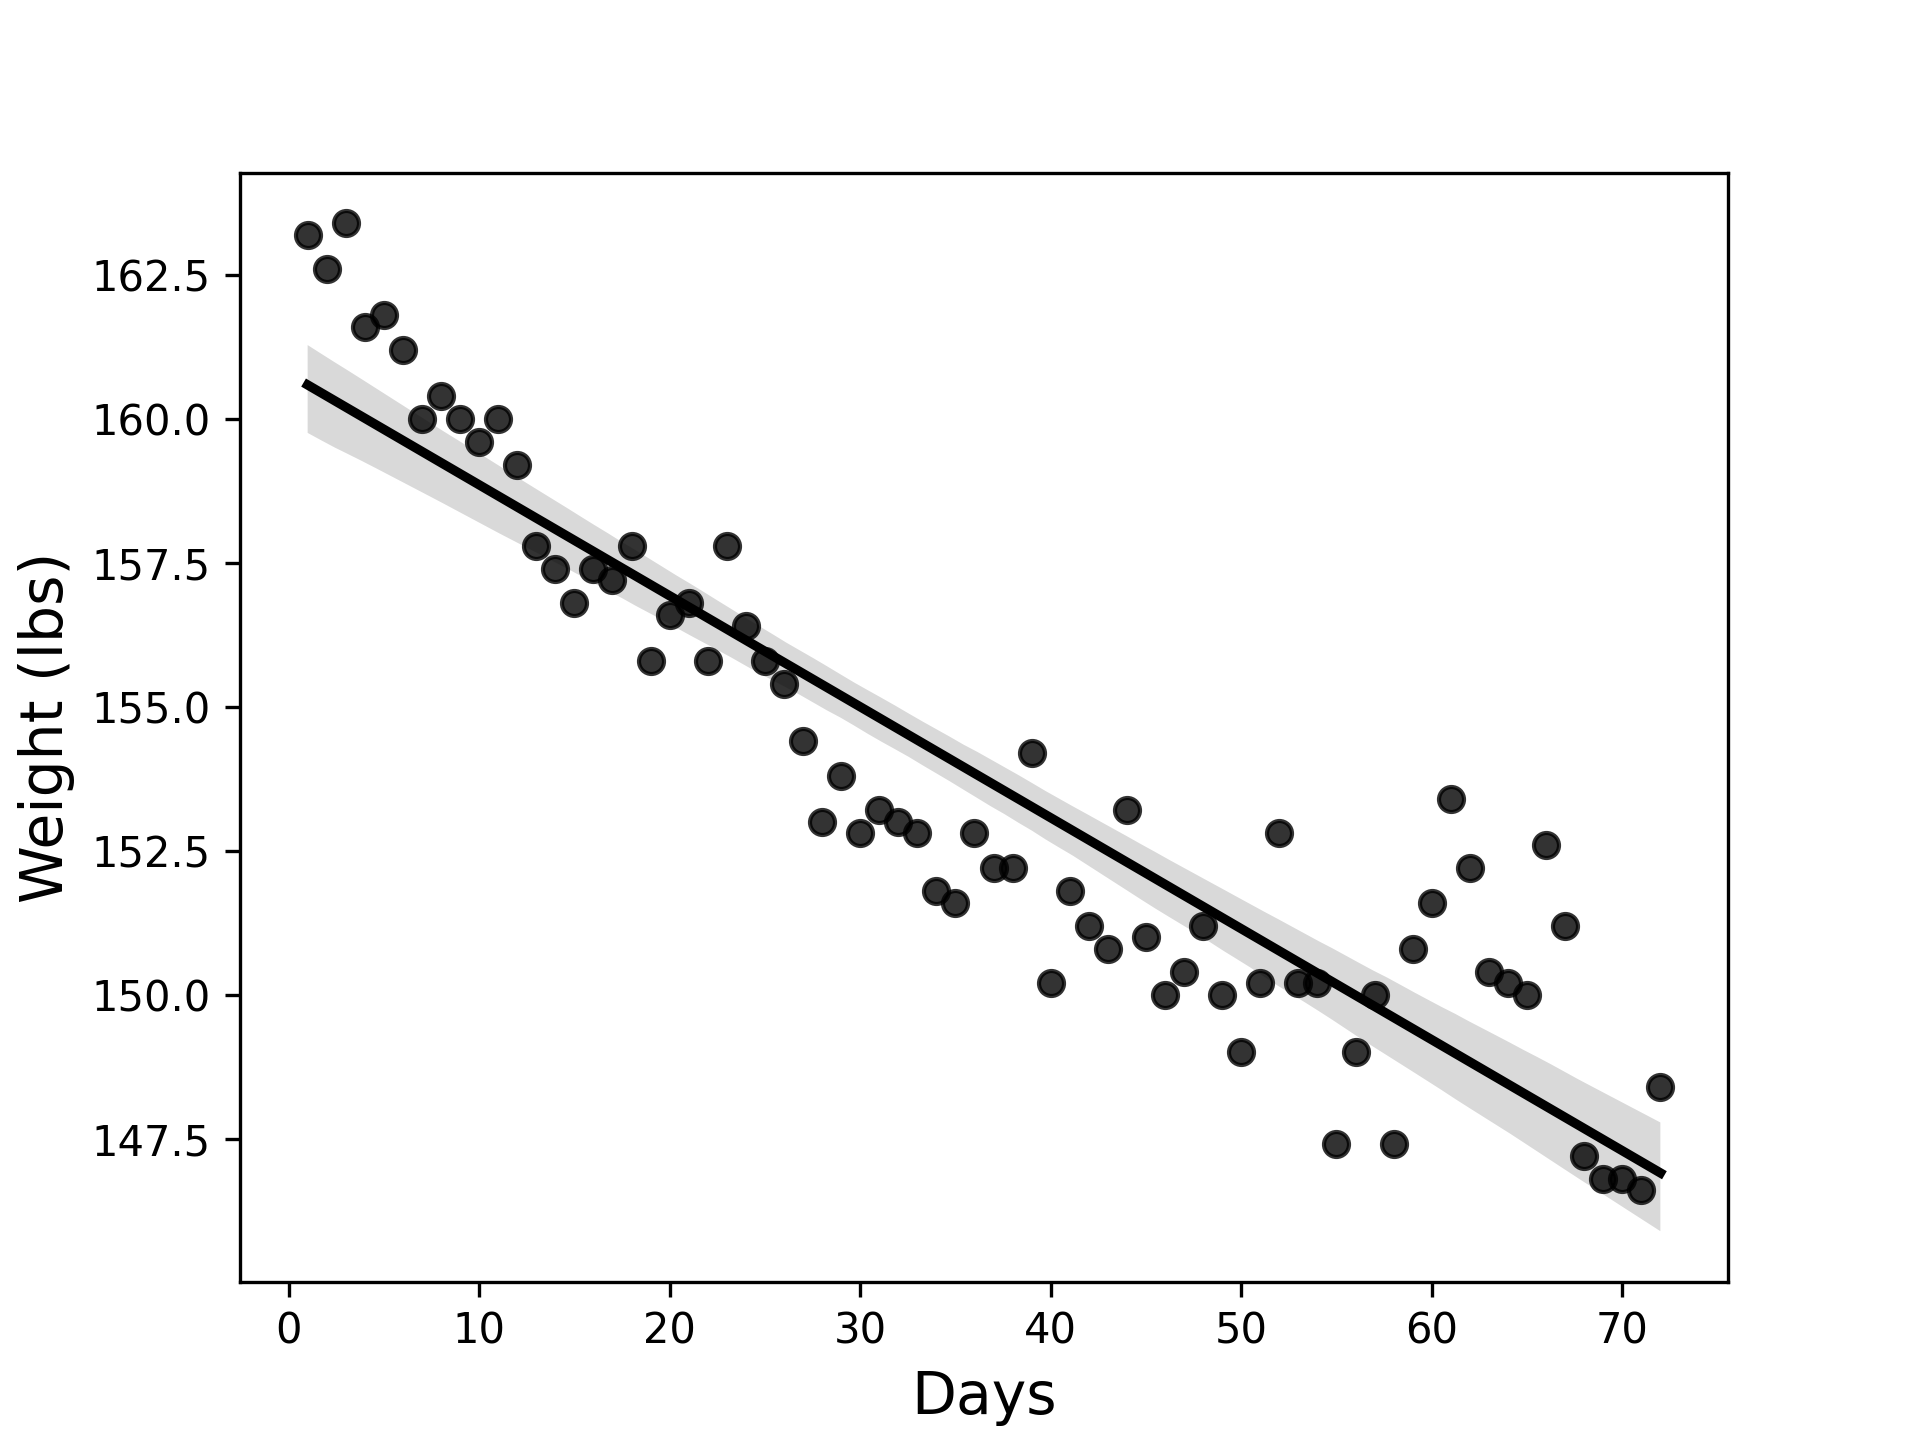
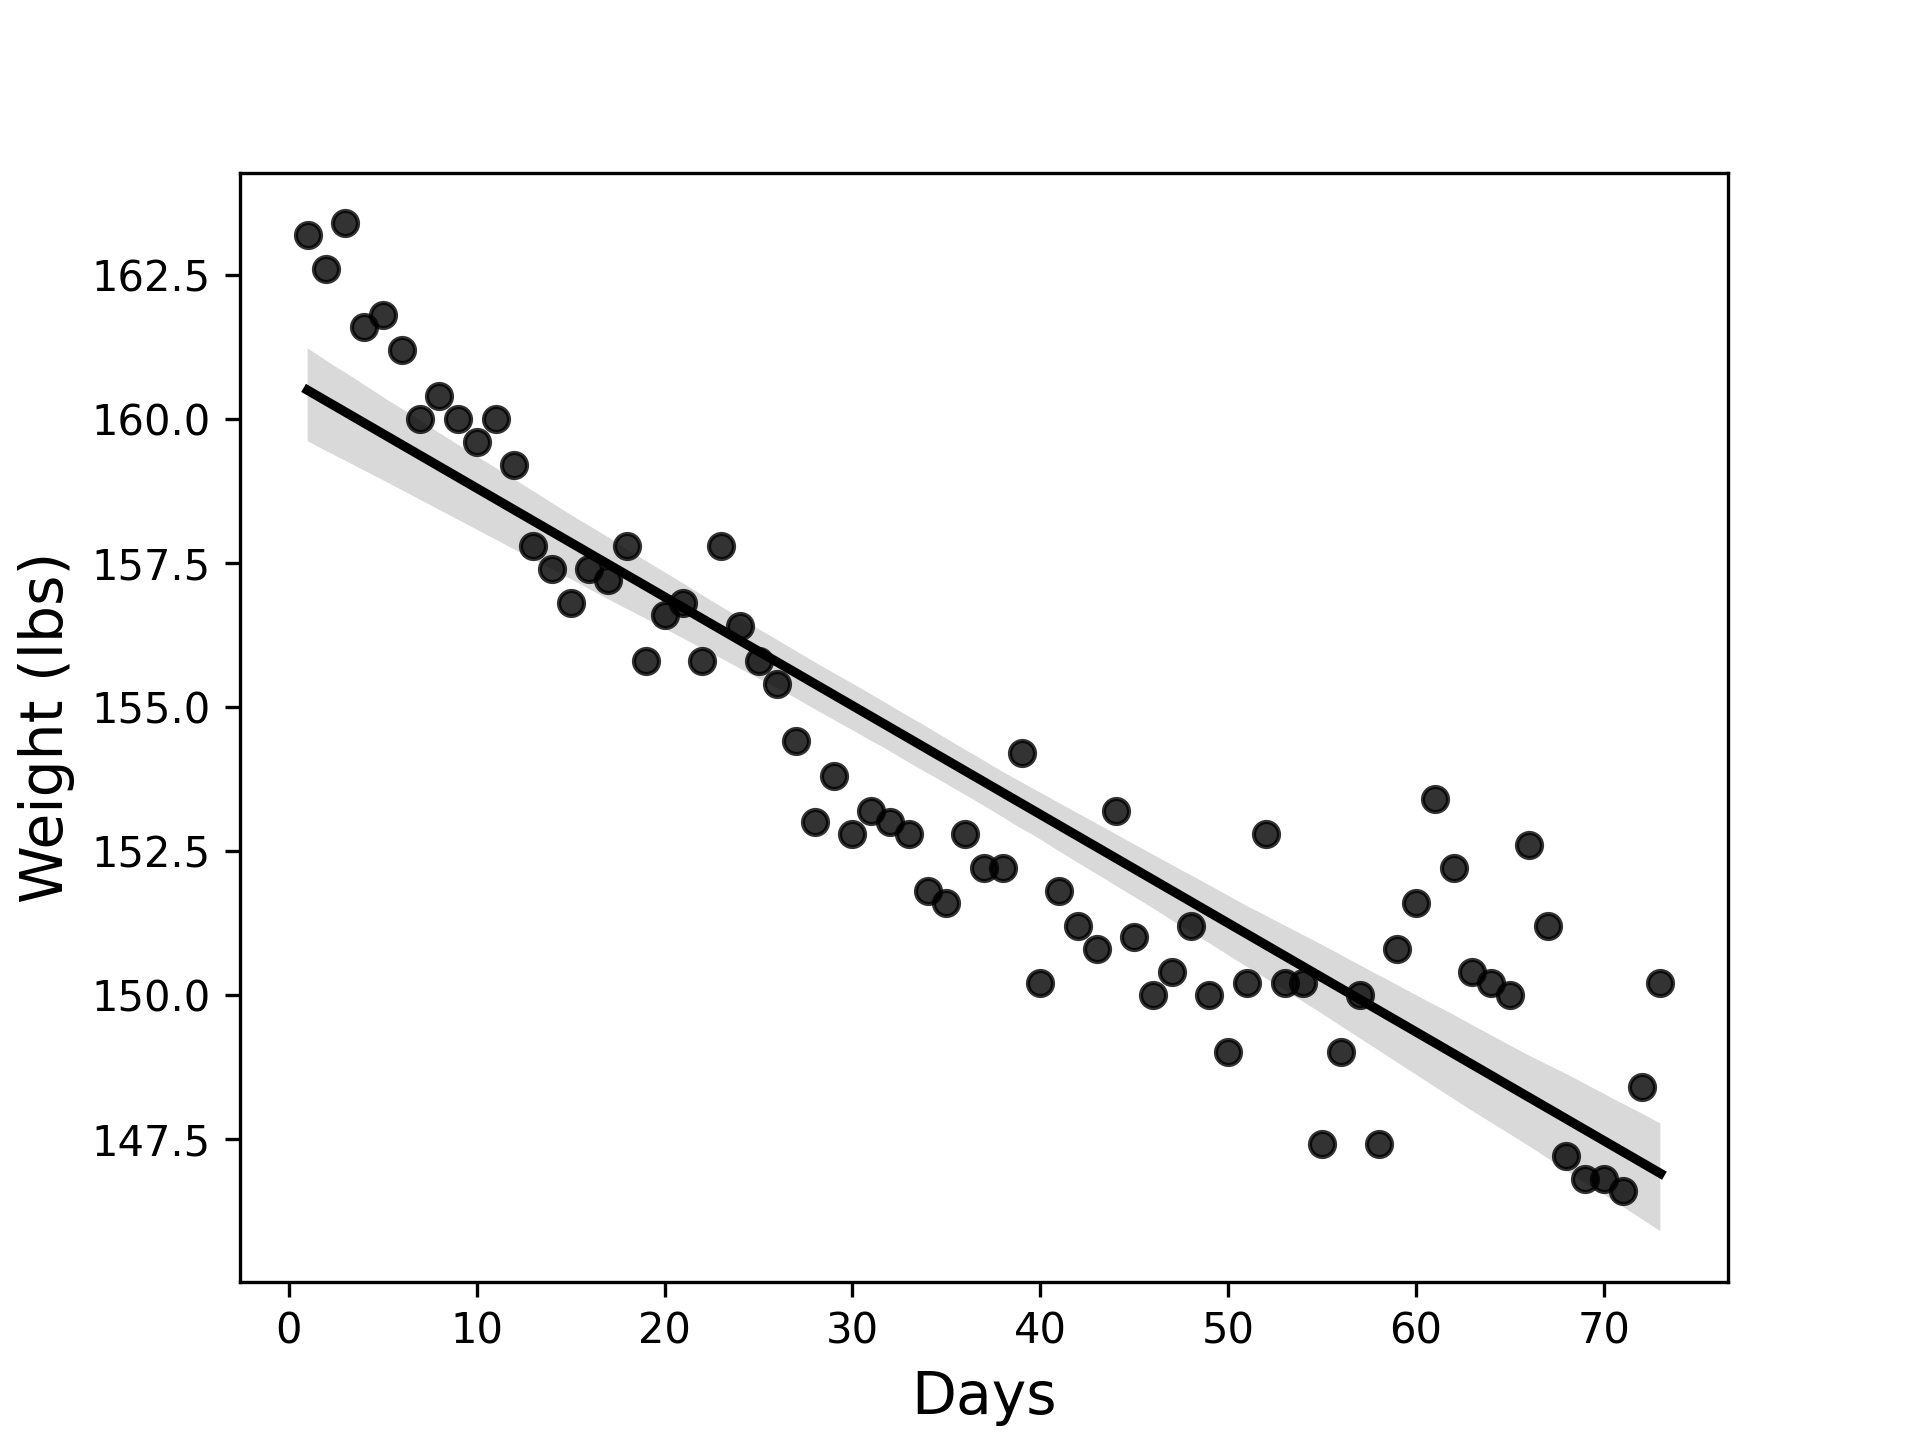
Updated weight.py and weight.png

diff --git a/Weight.py b/Weight.py
@@ -8,13 +8,13 @@ import seaborn as sns
 days_elapsed = np.array([1, 2, 3 ,4, 5, 6, 7, 8, 9, 10,11,12,13, 14,15,16,17,18,
                          19, 20,21,22,23,24,25,26,27,28,29,30,31,32,33,34,35,36,37,38,39,
                          40,41,42,43,44,45,46,47,48,49,50,51,52,53,54,55,56,57,58,59,60,61,62,
-                         63,64,65,66,67,68,69,70,71,72]).reshape(-1,1)
+                         63,64,65,66,67,68,69,70,71,72,73]).reshape(-1,1)
 weight = np.array([163.2, 162.6, 163.4, 161.6, 161.8, 161.2, 160.0, 160.4, 160.0, 159.6,160.0,159.2,157.8, 157.4,156.8,157.4,
                    157.2, 157.8,155.8, 156.6,156.8,155.8,157.8,156.4,155.8,155.4,154.4,153.0,153.8,152.8,153.2,
                    153.0,152.8,151.8,151.6,152.8,152.2,152.2,154.2,150.2, 151.8,151.2,150.8,153.2,
                    151.0,150.0,150.4,151.2,150.0,149.0,150.2,152.8,150.2,150.2,147.4,149.0,150.0,147.4,
                    150.8,151.6,153.4,152.2,150.4,150.2,150.0,152.6,151.2,147.2,146.8,146.8,146.6,
-                   148.4])
+                   148.4,150.2])
 # Day 62 BP
 
 # Instantiates a LinearRegression model and fits it to the above arrays
